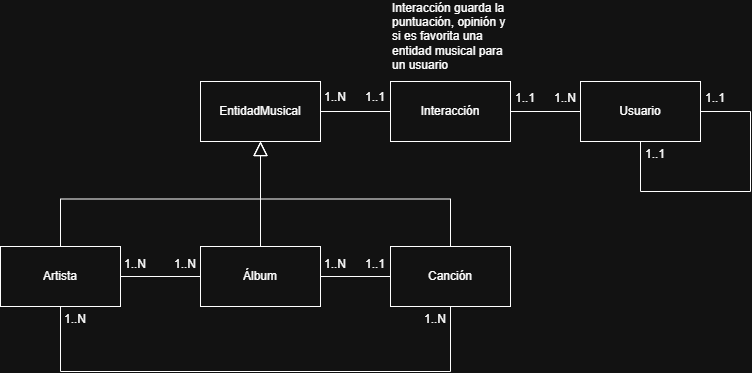
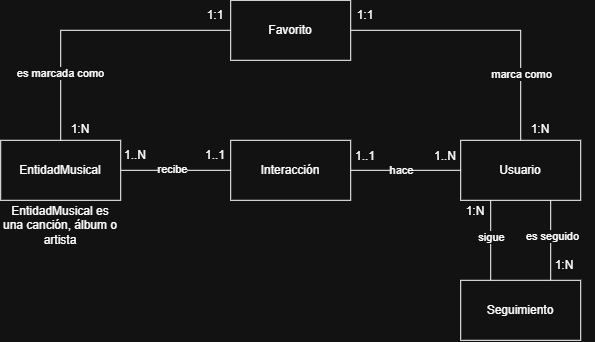
Actualización de README y modelo de dominio

diff --git a/README.md b/README.md
@@ -1,49 +1,55 @@
 # Propuesta TP DSW
 
 ## Grupo
+
 ### Integrantes
-* 55306 - Peirone Iracelay, Bruno Santino
-* 53797 - Rueda, Ezequiel Matias
+
+- 55306 - Peirone Iracelay, Bruno Santino
+- 53797 - Rueda, Ezequiel Matias
 
 ### Repositorios
-* [frontend app](https://github.com/ezewheel/dsw-front)
-* [backend app](https://github.com/ezewheel/dsw-back)
+
+- [frontend app](https://github.com/ezewheel/dsw-front)
+- [backend app](https://github.com/ezewheel/dsw-back)
 
 ## Tema
+
 ### Descripción
-El sistema consiste en una plataforma para calificar música. Le dará al usuario la posibilidad de buscar artistas, álbumes y canciones y puntuar y opinar sobre los mismos. Funcionará como una red social donde los usuarios podrán consultar las puntuaciones y opiniones propias y de otros usuarios, asi como seguir a otros usuarios para ser notificados sobre las reseñas que éstos dejaron.
+
+El sistema consiste en una plataforma para opinar sobre música. Le dará al usuario la posibilidad de buscar artistas, álbumes y canciones y puntuar y reseñar las mismas. Funcionará como una red social donde los usuarios podrán consultar las puntuaciones y reseñas propias y de otros usuarios, asi como seguir a otros usuarios para ser estar al tanto de las puntuaciones y reseñas que estos dejaron.
 
 ### Modelo
-![imagen del modelo](https://raw.githubusercontent.com/ezewheel/dsw-back/refs/heads/main/domain_model.png)
 
-*Nota: revisar https://refactoring.guru/design-patterns/strategy para diseño de opinión y puntuación.
+![imagen del modelo](https://raw.githubusercontent.com/ezewheel/dsw-back/refs/heads/develop/domain_model.png)
 
-## Alcance Funcional 
+## Alcance Funcional
 
 ### Alcance Mínimo
 
 #### Regularidad:
-|Req|Detalle|
-|:-|:-|
-|CRUD simple|1. CRUD Usuario<br>2. CRUD Artista*|
-|CRUD dependiente|1. CRUD Canción* {depende de} CRUD Artista|
-|Listado<br>+<br>detalle| 1. Listado de álbumes filtrado por artista, muestra imagen, nombre, cantidad de canciones y fecha de lanzamiento => detalle muestra la información del álbum y el listado de canciones que lo componen.<br>|
-|CUU/Epic|1. Puntuar un artista/canción
 
-*Nota: Artista y Canción se crean para guardar su puntuación y opiniones. Su información se traerá de una API externa.
+| Req                     | Detalle                                                                                                                                                                                                                                                                                                                                                   |
+| :---------------------- | :-------------------------------------------------------------------------------------------------------------------------------------------------------------------------------------------------------------------------------------------------------------------------------------------------------------------------------------------------------- |
+| CRUD simple             | 1. CRUD Usuario<br>2. CRUD EntidadMusical\*                                                                                                                                                                                                                                                                                                               |
+| CRUD dependiente        | 1. CRUD Interacción {depende de} CRUD EntidadMusical y CRUD Usuario                                                                                                                                                                                                                                                                                       |
+| Listado<br>+<br>detalle | 1. Listado de álbumes filtrado por artista, muestra imagen, nombre, cantidad de canciones y puntuación => detalle muestra listado de canciones, información del álbum, las reviews de los usuarios.<br>2. Listado de canciones filtrado por álbum muestra título, duración y puntuación => detalle muestra las reseñas de los usuarios de la canción.<br> |
+| CUU/Epic                | 1. Puntuar y reseñar una entidad musical                                                                                                                                                                                                                                                                                                                  |
 
+\*Una entidad musical es un artista, álbum o canción
+
+\*Nota: las entidades musicales se crean para guardar su puntuación y opiniones. Su información se traerá de una API externa.
 
 #### Aprobación:
-|Req|Detalle|
-|:-|:-|
-|CRUD |1. CRUD Álbum {depende de} CRUD Canción<br>2. CRUD Interacción {depende de} CRUD Artista/Álbum/Canción|
-|CUU/Epic|1. Publicar opinión de una canción<br>2. Calificar (upvote/downvote) opinión de una canción<br>3. Agregar Artista/Álbum/Canción a lista de favoritos|
 
+| Req      | Detalle                                                                                                           |
+| :------- | :---------------------------------------------------------------------------------------------------------------- |
+| CRUD     | 1. CRUD Seguimiento {depende de} CRUD Usuario<br>2. CRUD Favorito {depende de} CRUD Usuario y CRUD EntidadMusical |
+| CUU/Epic | 1. Ver listado de puntuaciones y reseñas de usuarios seguidos y entidades musicales favoritas<br>                 |
 
 ### Alcance Adicional Voluntario
 
-|Req|Detalle|
-|:-|:-|
-|Listados |1. Listado de canciones filtrado por álbum, muestra título y duración => detalle muestra la información y las opiniones de la canción.<br>2. Opiniones y puntuaciones de todos los usuarios seguidos en una misma ventana (similar al feed de las redes sociales).|
-|CUU/Epic|1. Ver opiniones de Usuario<br>2. Ver puntuaciones de Usuario<br>3. Ver favoritos de Usuario|
-|Otros| 1. CRUD Seguir (Usuario)
+| Req      | Detalle |
+| :------- | :------ |
+| Listados | 1.      |
+| CUU/Epic | 1.      |
+| Otros    | 1.      |
